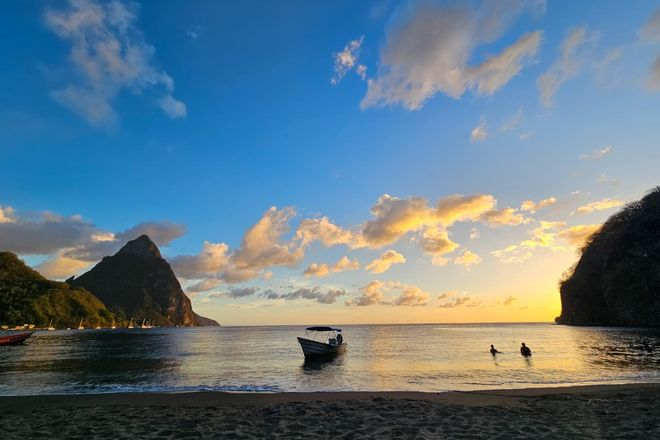
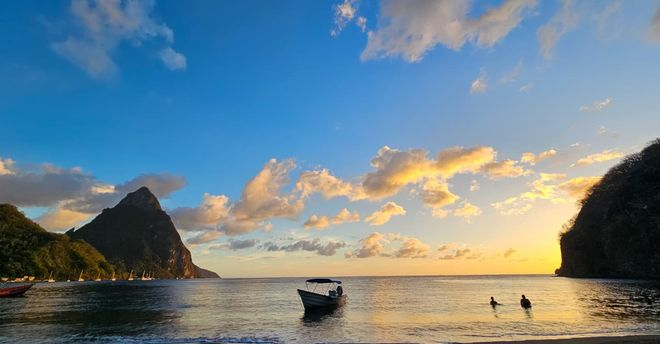
Updated layout after correcting size of screen

diff --git a/layout/room_climate_widget.py b/layout/room_climate_widget.py
@@ -34,7 +34,7 @@ def display_room_climate_widget(draw, image, x_start, y_start, df):
     
     # Draw temperature
     draw.text((x, y), "Temperature", font=font_small, fill=fill_main)
-    y += spacing_small - 3
+    y += spacing_small - 4
     draw.text((x, y), str(latest_values["temperature"]) + '°C', font=font_normal, fill=fill_main)
     
     diff_temperature = round(latest_values["temperature"] - compare_values ["temperature"])
@@ -55,7 +55,7 @@ def display_room_climate_widget(draw, image, x_start, y_start, df):
     
     # Draw Humidity
     draw.text((x, y), "Humidity", font=font_small, fill=fill_main)
-    y += spacing_small - 3
+    y += spacing_small - 4
     draw.text((x, y), str(latest_values["humidity"]) + '%', font=font_normal, fill=fill_main)
     
     diff_humidity = round(latest_values["humidity"] - compare_values ["humidity"])
@@ -77,7 +77,7 @@ def display_room_climate_widget(draw, image, x_start, y_start, df):
         
     # Draw CO2
     draw.text((x, y), "CO2", font=font_small, fill=fill_main)
-    y += spacing_small - 3
+    y += spacing_small - 4
     draw.text((x, y), str(latest_values["co2"]) + 'ppm', font=font_normal, fill=fill_main)
     
     diff_co2 = round(latest_values["co2"] - compare_values ["co2"])
@@ -98,7 +98,7 @@ def display_room_climate_widget(draw, image, x_start, y_start, df):
     
     
     draw.rounded_rectangle(
-                    (x_start, y_start, x_start + 256, y_start + 250),
+                    (x_start, y_start, x_start + 256, y_start + 240),
                     radius=20,
                     outline=fill_main,
                 )

diff --git a/layout/dashboard.py b/layout/dashboard.py
@@ -79,14 +79,14 @@ def make_dashbord(data):
         
         # draw random picture
         try:
-            display_photo(draw, image, 30, 430, 690, 870)
+            display_photo(draw, image, 30, 430, 690, 774)
         except:
             logger.exception("display_photo failed")
         
         
         
         # Draw next holidays
-        y = 870 + widget_spacing
+        y = 774 + widget_spacing
         try:
             y_1 = display_holiday(draw, image, holidays, 30, y)
         except:
@@ -103,7 +103,7 @@ def make_dashbord(data):
         y = max(y_1, y_2) + widget_spacing            
         # draw news data
         try:
-            display_news_widget(draw, image, 30, 1168, data['news_data'])
+            display_news_widget(draw, image, 30, 1062, data['news_data'])
         except:
             logger.exception("display_news_widget failed")
         

diff --git a/layout/news_widget.py b/layout/news_widget.py
@@ -11,7 +11,7 @@ def display_news_widget(draw, image, x_start, y_start, news_data):
     x = x_start + frame_offset
     qr_code_size = 76  # Size of the QR code
     widget_width = 660
-    widget_height = 486
+    widget_height = 422
     
     
     # Draw news title

diff --git a/layout/fonts.py b/layout/fonts.py
@@ -21,7 +21,7 @@ font_medium = ImageFont.truetype(
 
 font_normal = ImageFont.truetype(
     FONT_DIR / "Inter_18pt-Regular.ttf",
-    25
+    23
 )
 
 font_small_italic = ImageFont.truetype(

diff --git a/assets/photo/photo_converter.py b/assets/photo/photo_converter.py
@@ -6,7 +6,7 @@ output_folder = input_folder / "resized"
 
 output_folder.mkdir(exist_ok=True)
 
-MAX_SIZE = (660, 440)
+MAX_SIZE = (660, 344)
 
 for file in input_folder.iterdir():
 
